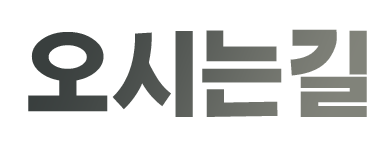
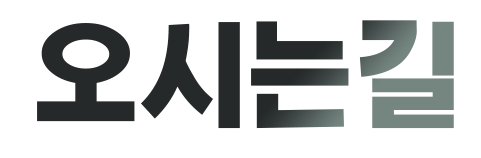
희정

diff --git a/gga_test1/WebContent/css/gga.css b/gga_test1/WebContent/css/gga.css
@@ -375,6 +375,10 @@ height:100px;
 /***************************
 	index
 *****************************/
+.ggamovietitle img{
+	width:400px;
+	height:100px;
+}
 
 .mapimg{
 	width:200px;
@@ -384,10 +388,21 @@ height:100px;
 	width:250px;
 	height:100px;	
 }
+.nowtitle img{
+		width:250px;
+	height:100px;	
+	
+}
 	
 /***************************
 	commons style sheet
 *****************************/
+.orderbtn img{
+	width:160px;
+	height:50px;
+	
+}
+
 * {
 	margin:0px; padding:0px;
 }
